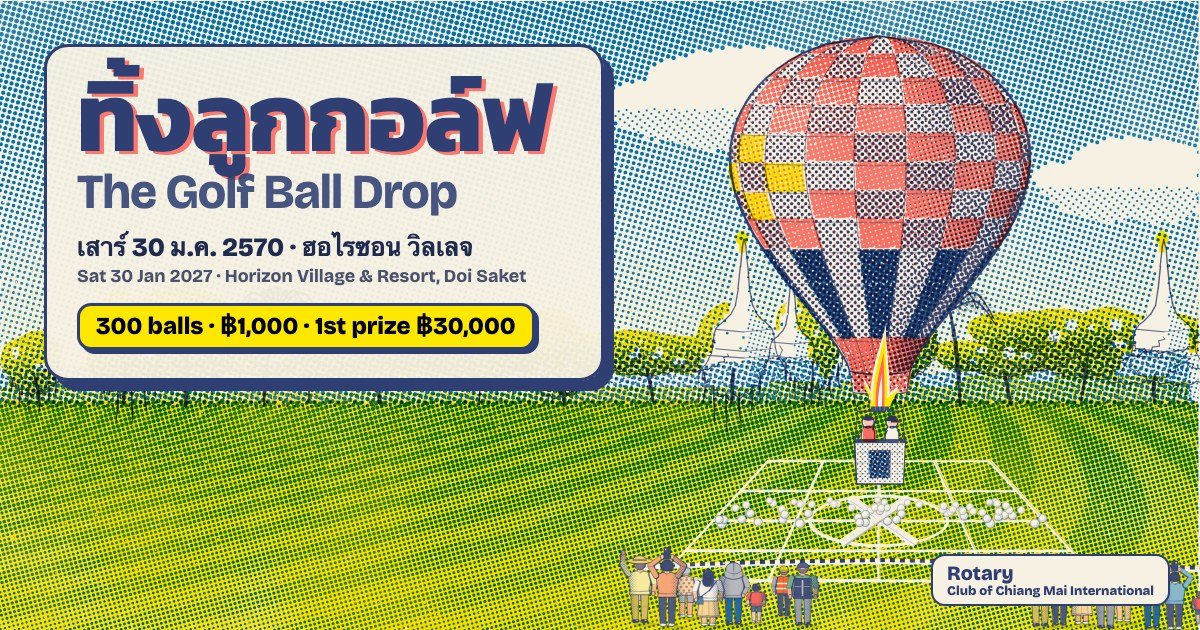
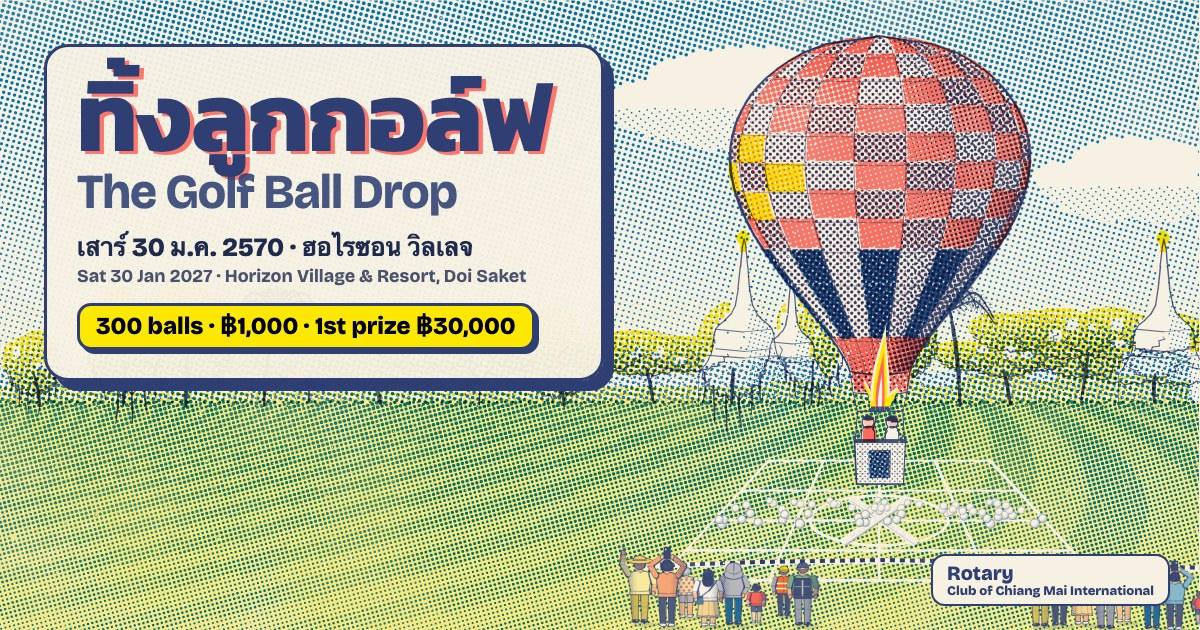
Volume: three levels instead of one. The balloon, the X and the buttons that act stay loud; headings in key; cards, labels, chips and section grounds quiet; the scenery printed lighter and finer (L.quiet), the kapok stepped back

diff --git a/js/scene.js b/js/scene.js
@@ -18,7 +18,7 @@ function maskOf(w, h, paint) {
 }
 // riso.screen() prints a dot of radius 0.71*sqrt(t)*pitch: a tone of 0.63 or more closes into a
 // solid and a mid tone lands about 1.6x heavier than written. scr() writes tones at 0.62.
-const GAM = 0.62;
+let GAM = 0.62;   // bakeGround lowers it for the ground (L.quiet): the balloon and the X lead, the scenery steps back
 // riso.screen() walks the whole box's grid for every call. With `b` (the clip's bounds, {x0,x1,y0,y1}) it walks only
 // the lattice nodes whose dots can land inside them: the same lattice, the same dots, a fraction of the visits.
 function screenIn(ctx, box, pitch, ang, tone, color, clip, b) {
@@ -522,6 +522,10 @@ export function crowd(seed, x0, x1, baseAt, h) {
 //      kapok ('left' | 'right' | none: a foreground trunk), palms (false for none),
 //      fullH (the surface is taller than h: plain lawn runs on below h to fullH) }
 export function bakeGround(dest, L, seed = 3) {
+  const GAM0 = GAM; GAM = GAM0 * (L.quiet ?? 0.6);
+  try { return bakeGroundIn(dest, L, seed); } finally { GAM = GAM0; }
+}
+function bakeGroundIn(dest, L, seed) {
   const { w, h, hy } = L, r = rng(seed), rv = rng(seed * 13 + 5), P = L.pitch || 5.2, wide = w >= 900, U = clamp(h / 470, 0.85, 1.7), full = Math.max(h, L.fullH || h);
   const box = { x0: 0, y0: 0, x1: w, y1: full };
   const gz = (y) => clamp((y - hy) / (h - hy));       // 0 at the horizon, 1 at the front
@@ -664,7 +668,8 @@ export function bakeGround(dest, L, seed = 3) {
       // the kapok: its photo's trunk is all conical thorns. A light screen under them, darker on the shaded side; thorns 8-14 px in rows that follow the trunk, each with its paper glint
       if (kapok) {
         const frac = (y) => clamp((kapok.yb - y) / (kapok.yb - kapok.yt)), flat = Math.hypot(kapok.yb - kapok.yt, kapok.x0 - kapok.top[0]);
-        scr(c, box, P, tone('key'), (x, y) => { if (x < kapokBox[0] || x > kapokBox[1]) return 0; return x > kapok.mid(frac(y)) ? 0.62 : 0.3; }, ink, kapok.p, kapokB);
+        scr(c, box, P, tone('key'), (x, y) => { if (x < kapokBox[0] || x > kapokBox[1]) return 0; return x > kapok.mid(frac(y)) ? 0.4 : 0.18; }, ink, kapok.p, kapokB);
+        c.save(); c.globalAlpha = 0.45;   // the trunk frames the picture; it does not compete with the balloon
         const kr = rng(seed + 77), tz = clamp(kapok.bw / 28, 1, 1.5), gap = 11 * tz, rows = Math.max(3, Math.round(flat / gap));
         for (let q = 0; q <= rows; q++) {
           const t = q / rows, y = lerp(kapok.yb, kapok.yt, t), m = kapok.mid(t), half = lerp(kapok.bw, kapok.tw, t) / 2, cnt = Math.max(3, Math.round((half * 2) / (7 * tz)));
@@ -675,16 +680,17 @@ export function bakeGround(dest, L, seed = 3) {
             c.save(); c.globalCompositeOperation = 'destination-out'; c.lineCap = 'round'; c.lineWidth = Math.max(0.8, sz * 0.09); c.beginPath(); c.moveTo(bx + dx * sz * 0.2 - px * bwid * 0.14, by + dy * sz * 0.2 - py * bwid * 0.14); c.lineTo(bx + dx * sz * 0.62 - px * bwid * 0.05, by + dy * sz * 0.62 - py * bwid * 0.05); c.stroke(); c.restore();   // a bare-paper glint down each thorn's lit edge
           }
         }
-        crayon(c, kapok.edgeL, { w: 1.4, color: ink, seed: 1200, wobble: 0.5 }); crayon(c, kapok.edgeR, { w: 1.6, color: ink, seed: 1201, wobble: 0.5 });
+        c.restore();
+        crayon(c, kapok.edgeL, { w: 1.2, color: ink, seed: 1200, wobble: 0.5, alpha: 0.6 }); crayon(c, kapok.edgeR, { w: 1.3, color: ink, seed: 1201, wobble: 0.5, alpha: 0.6 });
       }
     },
   };
   // the greens: the yellow (or the leaf) laid solid over the lawn; the blue as a screen that carries the mown stripes
   greens(plates, (c, ink, k) => {
     if (ink === 'sun' || ink === 'leaf') {
-      c.fillRect(0, hy + 1, w, full - hy);
+      c.save(); c.globalAlpha = 0.7 * (L.quiet ?? 0.6); c.fillRect(0, hy + 1, w, full - hy); c.restore();   // a light lay, so the lawn sits behind the balloon and the X
       if (ink === 'leaf') { c.save(); c.globalCompositeOperation = 'destination-out'; c.fillStyle = '#000'; screen(c, box, P, 75, (x, y) => (y < hy + 1 || stripe(x, y) > 0.9 ? 0 : 0.2 + 0.1 * gz(y)), '#000'); c.restore(); }
-    } else screen(c, box, P * 0.8, 75, (x, y) => (y < hy + 1 ? 0 : (0.44 - 0.24 * gz(y)) * (stripe(x, y) > 0.9 ? 1 : 0.72)), inkOf(ink));
+    } else screen(c, box, P * 0.8, 75, (x, y) => (y < hy + 1 ? 0 : 0.75 * (0.44 - 0.24 * gz(y)) * (stripe(x, y) > 0.9 ? 1 : 0.72)), inkOf(ink));
     c.fillStyle = inkOf(ink);
     scr(c, box, P, tone(ink), (x, y) => (y < hy + 3 && inPath(near, x, y) ? 0.5 : 0), inkOf(ink));
     // canopies: lit tops (yellow-green), shaded undersides
@@ -704,7 +710,7 @@ export function bakeGround(dest, L, seed = 3) {
     c.restore();
     if (ink === 'sun') { c.fillStyle = inkOf('sun'); stakeSun(c); }
   });
-  print(dest, plates, { seed, reg: L.reg || 1 });
+  print(dest, plates, { seed, reg: (L.reg || 1) * 0.6 });
   // chalk: bare paper, drawn again by a hand with a line marker; the X in two passes
   const c = dest.ctx; c.save();
   chalk.forEach(([a, b, wd], k) => crayon(c, [a, [(a[0] + b[0]) / 2, (a[1] + b[1]) / 2], b], { w: wd * sc((a[1] + b[1]) / 2) * 1.3, color: look.paper, seed: 800 + k, alpha: 0.9, wobble: 0.4 }));

diff --git a/css/volume.css b/css/volume.css
@@ -1,0 +1,71 @@
+/* Volume (Nan, 2026-10-24: "colors and textures … too loud, too all-the-same-loudness … there should be more of a
+   spectrum"). Three levels, loaded last:
+   loud    the title, the balloon, the X, the gold and coral buttons that act (Get a ball, Give, Drop!, Email the
+           treasurer, I've sent it!), the raised total
+   middle  section headings, the selected chip, medal discs, the numbers that matter
+   quiet   cards, frames, labels, chips, secondary buttons, section grounds, the paper grain */
+:root{--hair:color-mix(in srgb,var(--key) 28%,transparent);--soft:color-mix(in srgb,var(--key) 12%,transparent);--lift:0 1px 0 var(--soft),0 6px 18px -10px color-mix(in srgb,var(--key) 35%,transparent)}
+@media (prefers-color-scheme:dark){:root:not([data-theme=light]){--hair:color-mix(in srgb,#f4ecdb 24%,transparent);--soft:color-mix(in srgb,#f4ecdb 10%,transparent);--lift:0 6px 18px -10px rgba(0,0,0,.6)}}
+body{background-image:none}
+
+/* middle: headings in key, no second ink; only the page title keeps its off-register coral */
+.riso-type{text-shadow:none}
+h1.riso-type{text-shadow:.04em .03em 0 color-mix(in srgb,var(--warm) 70%,transparent)}
+html.lang-both .riso-type .en{opacity:.72}
+.prizes .riso-type{text-shadow:none}
+
+/* quiet: the small section label is type, not a sticker */
+.kick{background:none;box-shadow:none;transform:none;padding:0;color:var(--key);font-size:12.5px;letter-spacing:.12em;border-bottom:2px solid color-mix(in srgb,var(--warm) 55%,transparent);border-radius:0}
+html.lang-both .kick .en{color:var(--key);opacity:.7}
+@media (prefers-color-scheme:dark){:root:not([data-theme=light]) .kick,:root:not([data-theme=light]) html.lang-both .kick .en{color:var(--sun)}}
+
+/* buttons: the gold and coral ones that act stay printed; everything else is a quiet outline */
+.btn{border-width:2px;box-shadow:3px 3px 0 var(--key)}
+.btn:hover{box-shadow:4px 4px 0 var(--key)}
+.btn.paper,.btn.sky,.btn.key,.acts .btn{box-shadow:none}
+.btn.paper{border-color:var(--hair);color:var(--key)}
+.btn.sky{background:transparent;color:var(--key);border-color:var(--hair)}
+.btn.paper:hover,.btn.sky:hover{box-shadow:none;background:var(--soft)}
+.acts .btn{border-width:1.5px}
+.sh,.chips button,.chips .other,.copy,.lang{box-shadow:none}
+.sh{border:1.5px solid var(--hair);background:transparent}
+.copy{background:transparent;border:1.5px solid var(--hair);color:var(--key)}
+.copy.done{background:color-mix(in srgb,var(--leaf) 30%,transparent)}
+.chips button,.chips .other{border:1.5px solid var(--hair);background:var(--card)}
+.chips button[aria-pressed=true]{border:2px solid var(--key);box-shadow:2px 2px 0 var(--key)}
+.lang{border-width:1.5px;border-color:var(--hair)}
+
+/* quiet: cards and frames lift a little off the paper instead of casting a second-ink shadow */
+.print{border:1.5px solid var(--hair);box-shadow:var(--lift)}
+.steps li,.proj,.how-give>li,.timeline li,.medal,.perks li,.date,.r-card,.ph{border-width:1.5px;border-color:var(--hair);box-shadow:var(--lift)}
+.steps li::before{border-width:1.5px;background:color-mix(in srgb,var(--sun) 55%,var(--paper))}
+.how-give>li::before{border-width:1.5px;background:color-mix(in srgb,var(--warm) 45%,var(--paper))}
+.timeline li.peak{background:color-mix(in srgb,var(--sun) 45%,var(--paper));box-shadow:var(--lift)}
+.perks li{background:transparent;box-shadow:none}
+.ph{box-shadow:0 1px 0 var(--soft),0 8px 16px -10px rgba(0,0,0,.35)}
+.ph::before{background:color-mix(in srgb,var(--sun) 45%,transparent)}
+.ticket{filter:drop-shadow(0 6px 10px rgba(0,0,0,.18))}
+.ticket .t-l::after,.medal .disc::after{opacity:.18}
+.top{border-bottom:1.5px solid var(--hair)}
+.hero-stage{border-color:var(--hair)}
+@media (min-width:900px){.hero-copy{border:1.5px solid var(--hair);box-shadow:0 18px 40px -22px color-mix(in srgb,var(--key) 55%,transparent);background:color-mix(in srgb,var(--paper) 96%,transparent)}}
+
+/* middle: the odometer is set in key on paper; gold is kept for things to press */
+.count .odo b{background:var(--paper);color:var(--key);border:1.5px solid var(--hair);box-shadow:none}
+
+/* quiet section grounds: tints, not floods */
+.give{background:color-mix(in srgb,var(--sun) 7%,var(--page))}
+.prizes{background:color-mix(in srgb,var(--prize-bg,var(--sky)) 9%,var(--page));color:var(--text);border-color:var(--hair)}
+.prizes .riso-type{color:var(--key)}
+html.lang-both .prizes h2 .en,.prizes .fine .en,.prizes .fine{color:var(--text)}
+html.lang-both .prizes h2 .en{opacity:.72}
+.medal .disc{border-width:2px}
+.share,footer{border-top-color:var(--hair)}
+@media (prefers-color-scheme:dark){:root:not([data-theme=light]) .give{background:color-mix(in srgb,var(--sun) 5%,#151829)}:root:not([data-theme=light]) .prizes .riso-type{color:var(--paper)}}
+
+/* the dividers of dingbats: smaller, a quiet line rather than a banner */
+.rule [data-dingbat]{font-size:clamp(34px,5vw,48px);opacity:.75}
+
+/* the live chart: its frame steps back so the total leads */
+.r-bar{border-width:1.5px;border-color:var(--hair)}
+.r-big>b{text-shadow:none}

diff --git a/js/hero.js b/js/hero.js
@@ -54,7 +54,7 @@ export function hero({ calm }) {
     liftMax = topM + 14;          // the balloon may rise until a little of its crown leaves the picture
     // the tape hangs about 5 px between stakes (a stake at every 4th point), with a ripple on top, drawn live
     const tape = [], step = wide ? 70 : 52; for (let x = wide ? W * 0.44 : -10; x <= W + 10; x += step) { const f = (tape.length % 4) / 4; tape.push([x, yT + Math.sin(x * 0.01) * 3 + 5 * 4 * f * (1 - f)]); }
-    L = { w: W, h: vh, fullH: H, hy, x: [cx, yX], xs, tape, tapeW: wide ? 4 : 3, pitch: wide ? 5.6 : 4.8, reg: wide ? 1.2 : 0.9, chedis: wide ? [0.48, 0.52, 0.9] : [0.12, 0.17, 0.88], clouds: [], liveTape: true, kapok: wide ? 'right' : 'left' };
+    L = { w: W, h: vh, fullH: H, hy, x: [cx, yX], xs, tape, tapeW: wide ? 4 : 3, pitch: wide ? 4.4 : 3.8, reg: wide ? 1.2 : 0.9, chedis: wide ? [0.48, 0.52, 0.9] : [0.12, 0.17, 0.88], clouds: [], liveTape: true, kapok: wide ? 'right' : 'left' };
     rb = wide ? Math.max(3.2, Math.min(6, W / 170)) : Math.max(4, Math.min(6, W / 100));
     bg = surface(W, H, dpr); G = bakeGround(bg, L, 3);
     // the cord's ring hangs above the X, never on its crossing: as long as the room under the basket allows, 16 px at the least

diff --git a/js/play.js b/js/play.js
@@ -912,7 +912,7 @@ export function board() {
     if (!size()) return;
     performance.mark('gbd:board-bake-start');
     const phone = W < 600, hy = Math.round(H * (phone ? 0.42 : 0.36));
-    L = { w: W, h: H, hy, x: [W / 2, 0], xs: Math.max(28, W * 0.05), tape: [], tapeW: phone ? 3 : 4, pitch: phone ? 6.2 : 7, reg: 1.1, chedis: [0.1, 0.14, 0.86], clouds: [[0.2, 0.25, 0.7], [0.75, 0.15, 0.6]] };
+    L = { w: W, h: H, hy, x: [W / 2, 0], xs: Math.max(28, W * 0.05), tape: [], tapeW: phone ? 3 : 4, pitch: phone ? 4.6 : 5.2, reg: 1.1, chedis: [0.1, 0.14, 0.86], clouds: [[0.2, 0.25, 0.7], [0.75, 0.15, 0.6]] };
     L.x[1] = gy(zX);
     // the tape on its stakes across the near lawn, as in the photos and the hero
     const yT = gy(zT); for (let x = -10; x <= W + 10; x += phone ? 52 : 70) L.tape.push([x, yT + Math.sin(x * 0.01) * 3]);

diff --git a/js/give.js b/js/give.js
@@ -148,7 +148,7 @@ export function give() {
     c.fillStyle = inkOf('key'); c.globalAlpha = 0.55; c.fillRect(x + 0.2, y - h, 1.3, h); c.restore();
   }
   function makeGround(g) {
-    const P = 4.6, pegs = [[g.pegL, g.gy - g.S * 0.05], [g.pegR, g.gy - g.S * 0.05]];
+    const P = 3.8, pegs = [[g.pegL, g.gy - g.S * 0.05], [g.pegR, g.gy - g.S * 0.05]];
     const L = { w: g.w, h: g.h, hy: g.hy, x: g.X, xs: g.xs, tape: [], tapeW: 3, pitch: P, reg: 0.8, chedis: [0.12, 0.17, 0.88], clouds: [], skyTone: 0.8 };
     const s = surface(g.w, g.h, dprG); bakeGround(s, L, 17);
     pegs.forEach(([x, y]) => stake(s.ctx, x, y, g.pegH));

diff --git a/index.html b/index.html
@@ -29,6 +29,7 @@
 <link rel="stylesheet" href="css/hero.css">
 <link rel="stylesheet" href="css/toys.css">
 <link rel="stylesheet" href="css/give.css">
+<link rel="stylesheet" href="css/volume.css">
 <script type="application/ld+json">
 {
   "@context": "https://schema.org",
